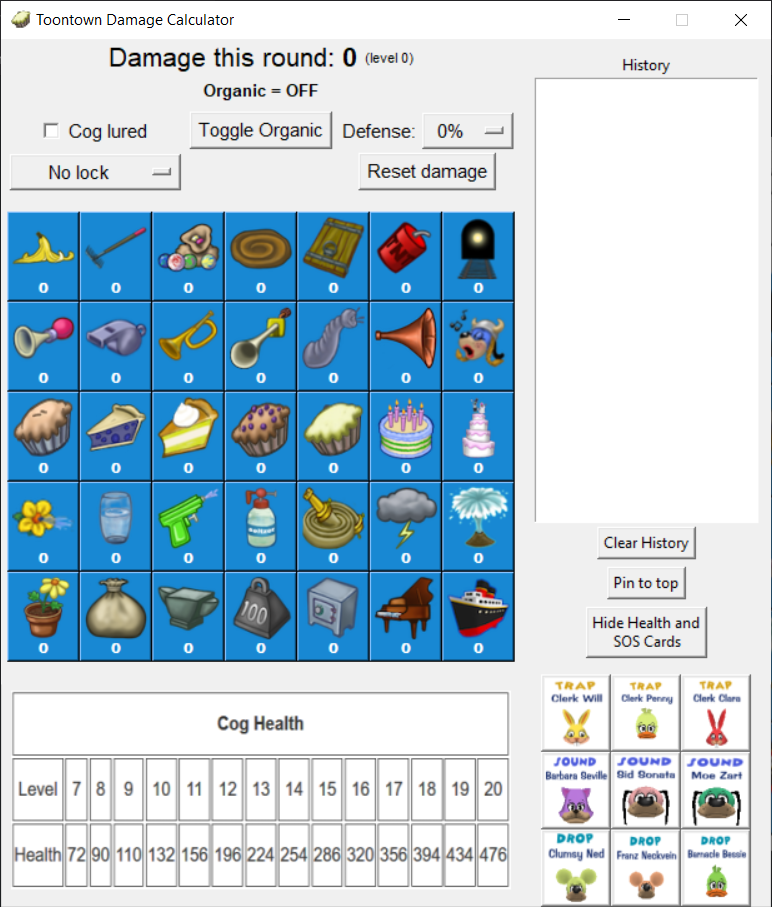
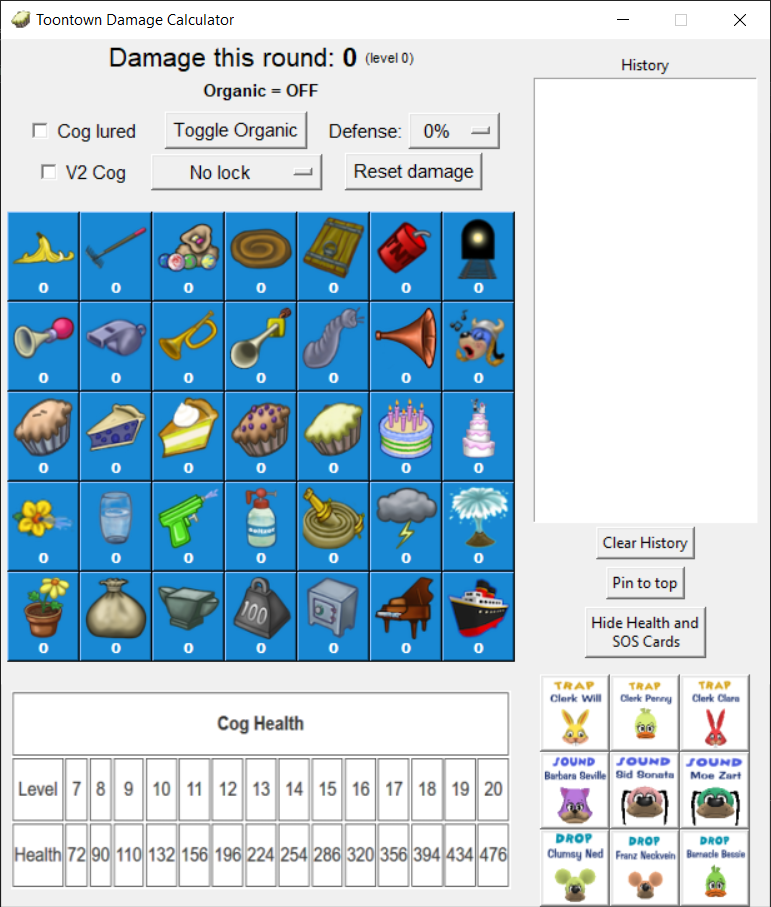
V2 Calculation
Finally got the motivation to do this. hopefully it works as intended!
fix #9

diff --git a/README.md b/README.md
@@ -10,7 +10,11 @@ Click any gag on the grid to add it to the calculation.
 
 **Statuses/Modifiers**
 
-Buttons are available above the grid, allowing you to factor in things on calculation, such as a cog being lured that round, organic gags, and cog defense level. Lure and/or Defense can be locked in with the Lock menu, preventing them from resetting when the user clicks on the 'Reset Damage' button. When the organic button is pressed, every gag added subsequently will be calculated as organic. This will be indicated by every gag button turning orange, as well as a text indicator under the calculated damage. Click again to disable this.  
+Buttons are available above the grid, allowing you to factor in things on calculation, such as a cog being lured that round, organic gags, if the cog is a v2, and cog defense level. Lure and/or Defense can be locked in with the Lock menu, preventing them from resetting when the user clicks on the 'Reset Damage' button. When the organic button is pressed, every gag added subsequently will be calculated as organic. This will be indicated by every gag button turning orange, as well as a text indicator under the calculated damage. Click again to disable this.  
+
+**Concerning v2 Damage**
+V2 damage is weird. There are some levels where certain gag combos seem like they would work on higher cogs, but actually don't because of reinforced plating. An example is 2 regular fogs and 2 regular trunks. While this does 113 damage to level 8 cogs- more than enough damage for level 9 cogs- it will only do 108 damage to level 9 cogs, just under the 110 damage needed to destroy them. The calculator will show damage done to the highest level of v2 cogs defeated when the v2 toggle is active. Be sure to keep this in mind and pay attention to the level indicator rather than the damage number.  
+The v2 toggle is not compatible with cog defense. This is because I do not know how the interaction would work and I don't think they would ever interact. If they ever do, screenshot this and make fun of me for it.  
 
 **Other Features**
 
@@ -21,12 +25,13 @@ There are three buttons in the bottom right corner of the program.
 The latter two buttons can both be toggled off by pressing them a second time.  
 
 The program has various keybinds to expedite calculation:
-| Keybind     | Description       |
-| ----------- | ----------------- |
-| shift       | Toggle Organic    |
-| ctrl+d      | Toggle Defense    |
-| ctrl+l      | Toggle Lure       |
-| ctrl+r      | Reset Calculation |
+| Keybind     | Description         |
+| ----------- | ------------------- |
+| shift       | Toggle Organic      |
+| ctrl+d      | Toggle Defense      |
+| ctrl+l      | Toggle Lure         |
+| ctrl+v      | Toggle v2 Calculator|
+| ctrl+r      | Reset Calculation   |
 
 # Final Notes
 [![ko-fi](https://ko-fi.com/img/githubbutton_sm.svg)](https://ko-fi.com/I2I65IWZG)
